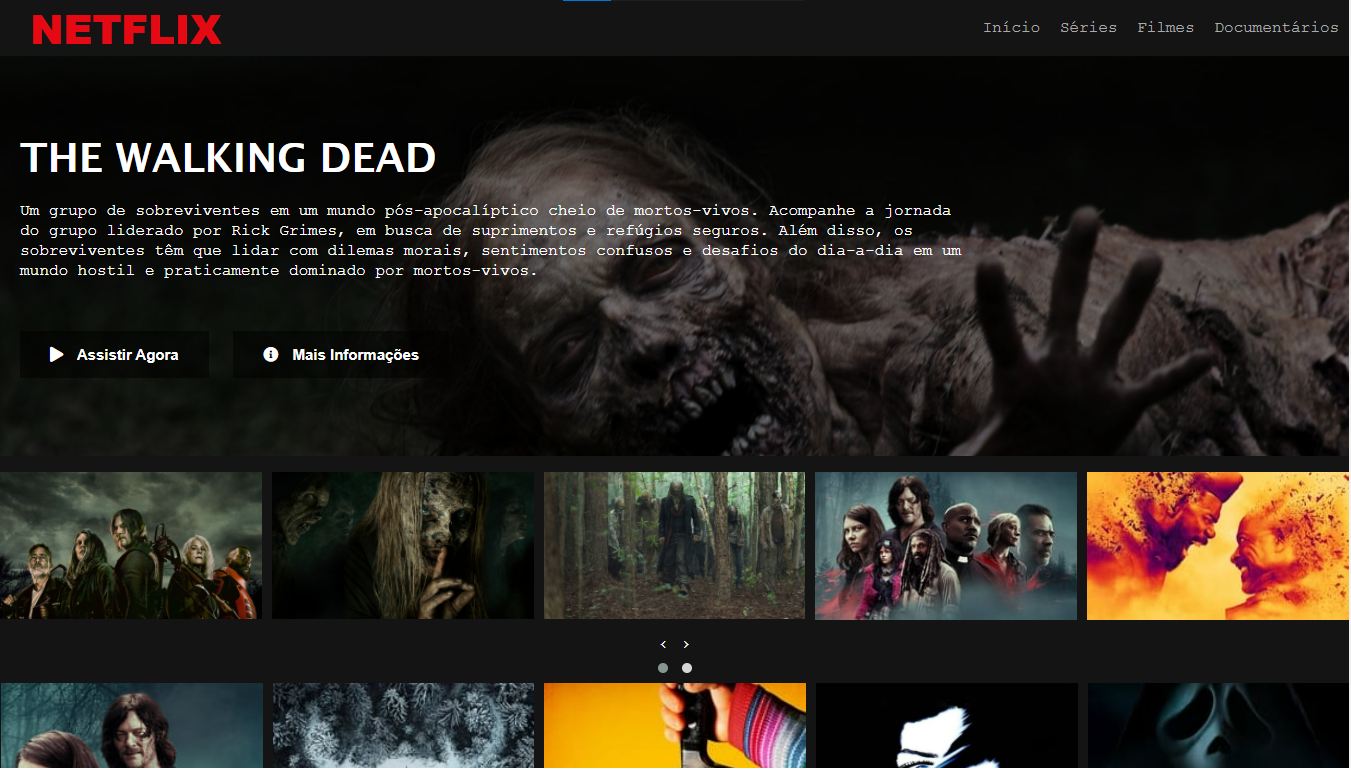
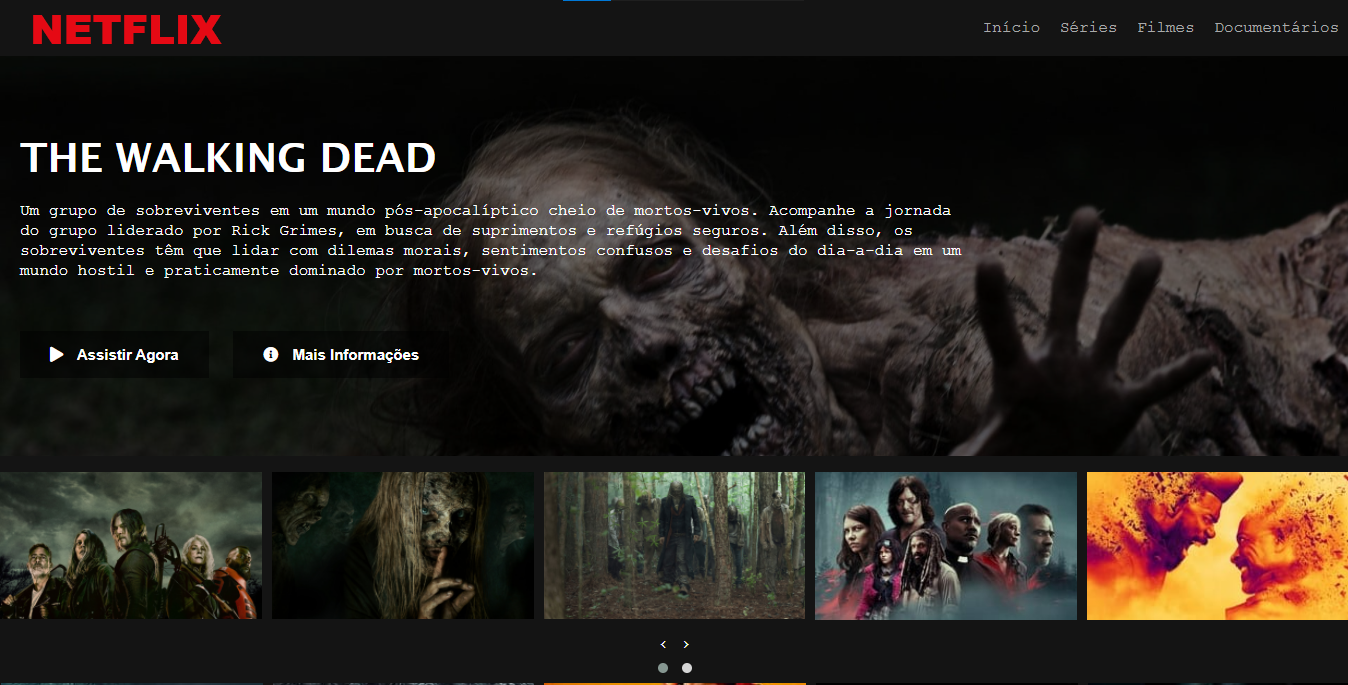
README

diff --git a/Netflix-Clone/README.md b/Netflix-Clone/README.md
@@ -3,8 +3,8 @@
 Exercício feito como etapa de um bootcamp na Digital Innovation One - DIO
 
 
-<img src="TWD-01.png" width="1366" height="700">
+<img src="TWD-01.png" width="1360" height="700">
 
 ------
 
-<img src="TWD-02.png" width="1200" height="780">
+<img src="TWD-02.png" width="1360" height="700">
